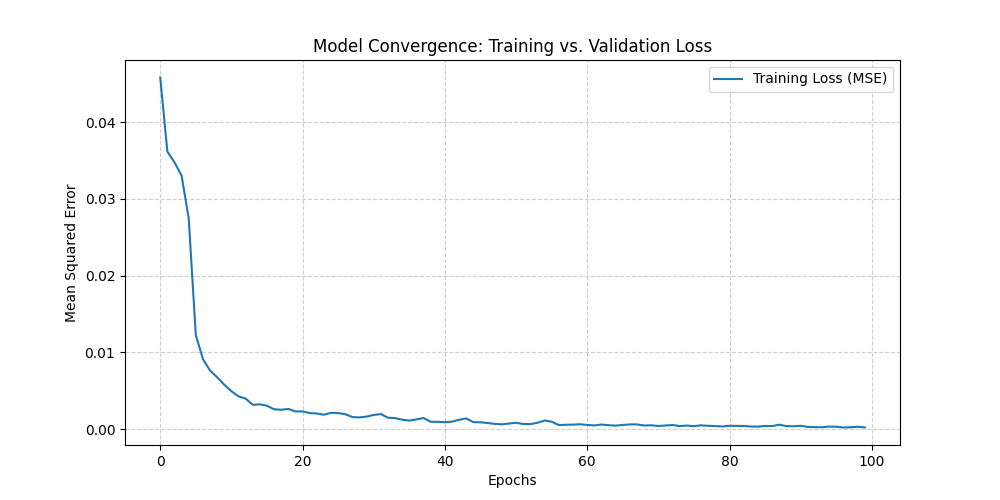
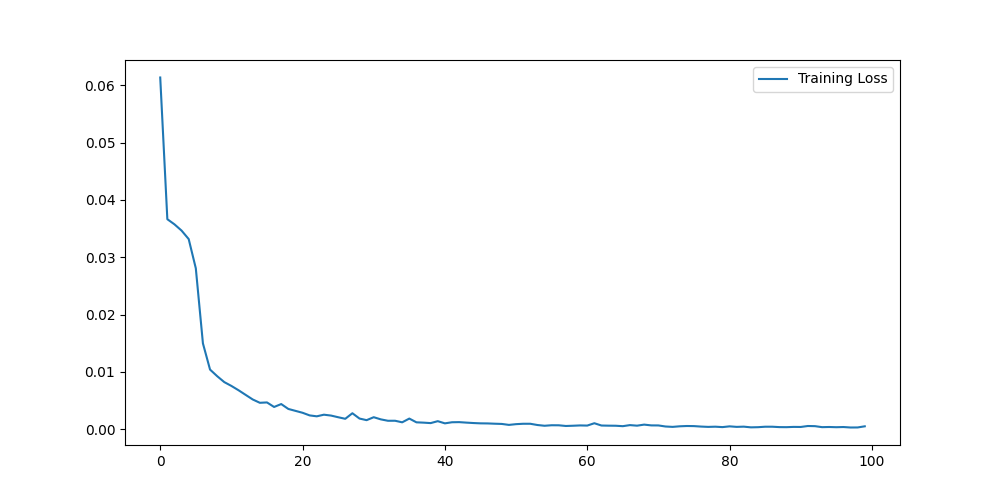
grid search, removed val partitioning completely from code
BEST PARAMS: (20, 50, 32)
BEST MSE: 5.521583744433976e-05

diff --git a/src/model_lstm.py b/src/model_lstm.py
@@ -2,108 +2,103 @@ import scipy.io
 import matplotlib.pyplot as plt
 import numpy as np
 import os
+from itertools import product
 from sklearn.preprocessing import MinMaxScaler
-from sklearn.metrics import mean_absolute_error, mean_squared_error
+from sklearn.metrics import mean_squared_error
 from tensorflow.keras.models import Sequential
 from tensorflow.keras.layers import Dense, LSTM, Input
 
-# Environment setup
-# gets rid of annoying warnings and forces TF to use CPU (since GPU is not available in Colab)
 os.environ["TF_CPP_MIN_LOG_LEVEL"] = "3"
 os.environ["TF_ENABLE_ONEDNN_OPTS"] = "0"
-# exist=ing_ok=True prevents error if folder already exists
+
 os.makedirs("models", exist_ok=True)
 os.makedirs("output", exist_ok=True)
 
-# constants
-WINDOW_SIZE = 20 #TODO try multiple using hyperparameter grid search 
-EPOCHS=100
-BATCH_SIZE=32
-VAL_SPLIT=0 #use 100% training set, no validation split, since we will evaluate on the test set. If you want to monitor training performance, set this to 0.2 or similar.
-VERBOSE=1 #print epoch loading, otherwise change to 0
-PREDICTIONS=200 #make 200 predictions 
+WINDOW_SIZES = [10, 20, 30]
+LSTM_UNITS = [32, 50]
+BATCH_SIZES = [16, 32]
 
-# Load and preprocess data
+EPOCHS = 100
+PREDICTIONS = 200
+
 data = scipy.io.loadmat("data/Xtrain.mat")
 X_raw = data["Xtrain"].flatten().reshape(-1, 1)
-# Scale data 
+
 scaler = MinMaxScaler(feature_range=(0, 1))
 X_scaled = scaler.fit_transform(X_raw).flatten()
 
-# Create sequences for RNN input 
 def create_sequences(data, window):
-    """Create sequences of length window from data"""
     X, Y = [], []
     for i in range(len(data) - window):
         X.append(data[i:i + window])
         Y.append(data[i + window])
     return np.array(X), np.array(Y)
 
-X, Y = create_sequences(X_scaled, WINDOW_SIZE)
-X = X.reshape(X.shape[0], X.shape[1], 1)
-
-print("Shape:", X.shape)
-
-# Model building and training
-# Try LSTM because it  handles the vanishing gradient problem in time-series...
-#  ... and capturing long-term dependencies better than SimpleRNN.
-def build_lstm():
+def build_lstm(window_size, units):
     model = Sequential([
-        Input(shape=(WINDOW_SIZE, 1)),
-        LSTM(50, activation="tanh", return_sequences=False),
+        Input(shape=(window_size, 1)),
+        LSTM(units, activation="tanh"),
         Dense(25, activation="relu"),
         Dense(1)
     ])
     model.compile(optimizer="adam", loss="mse")
     return model
 
-print("Training model...")
-model = build_lstm()
-history = model.fit(X, Y, epochs=EPOCHS, batch_size=BATCH_SIZE, verbose=VERBOSE, validation_split=VAL_SPLIT)
-model.save("models/best_lstm_model.keras")
+best_score = float("inf")
+best_params = None
+best_model = None
 
-# 4. RECURSIVE PREDICTION (Part c)
-# Use the last window of training data to start predicting the next 200 points
-print("Generating 200-step recursive forecast...")
+for window, units, batch in product(WINDOW_SIZES, LSTM_UNITS, BATCH_SIZES):
+    print(f"\nTesting: window={window}, units={units}, batch={batch}")
+
+    X, Y = create_sequences(X_scaled, window)
+    X = X.reshape(X.shape[0], X.shape[1], 1)
+
+    split = int(len(X) * 0.8)
+    X_train, X_val = X[:split], X[split:]
+    Y_train, Y_val = Y[:split], Y[split:]
+
+    model = build_lstm(window, units)
+    history = model.fit(X_train, Y_train, epochs=EPOCHS, batch_size=batch, verbose=0)
+
+    preds = model.predict(X_val, verbose=0)
+    mse = mean_squared_error(Y_val, preds)
+
+    print("MSE:", mse)
+
+    if mse < best_score:
+        best_score = mse
+        best_params = (window, units, batch)
+        best_model = model
+        best_history = history
+
+print("\nBEST PARAMS:", best_params)
+print("BEST MSE:", best_score)
+
+best_model.save("models/best_lstm_model.keras")
+
+WINDOW_SIZE = best_params[0]
+
 last_window = X_scaled[-WINDOW_SIZE:].reshape(1, WINDOW_SIZE, 1)
 recursive_preds_scaled = []
 
 current_batch = last_window
-for _ in range(200):
-    # Predict 1 step ahead
-    pred = model.predict(current_batch, verbose=VERBOSE)
+for _ in range(PREDICTIONS):
+    pred = best_model.predict(current_batch, verbose=0)
     recursive_preds_scaled.append(pred[0, 0])
-    
-    # Update the window: slide it forward by 1 and insert the prediction
-    new_entry = pred.reshape(1, 1, 1)
-    current_batch = np.append(current_batch[:, 1:, :], new_entry, axis=1)
+    current_batch = np.append(current_batch[:, 1:, :], pred.reshape(1,1,1), axis=1)
 
-# Part (a): Scale back to original units
 recursive_preds = scaler.inverse_transform(np.array(recursive_preds_scaled).reshape(-1, 1))
 
-# visualise loss curve 
 plt.figure(figsize=(10, 5))
-plt.plot(history.history['loss'], label='Training Loss (MSE)')
-if VAL_SPLIT > 0:
-    plt.plot(history.history['val_loss'], label='Validation Loss (MSE)')
-plt.title('Model Convergence: Training vs. Validation Loss')
-plt.xlabel('Epochs')
-plt.ylabel('Mean Squared Error')
+plt.plot(best_history.history['loss'], label='Training Loss')
 plt.legend()
-plt.grid(True, linestyle='--', alpha=0.6)
 plt.savefig("output/loss_lstm.png")
 plt.show()
 
-# FORECAST 
 plt.figure(figsize=(12, 6))
-plt.plot(range(len(X_raw)), X_raw, label="Historical Training Data", alpha=0.7)
-# 200 predictions
-plt.plot(range(len(X_raw), len(X_raw) + PREDICTIONS), recursive_preds, 
-         label="Recursive Forecast (Next 200 steps)", color='red', linewidth=2)
-plt.title("Laser Measurement: Full Sequence + Recursive Forecast")
-plt.xlabel("Time Steps")
-plt.ylabel("Measurement Value")
+plt.plot(range(len(X_raw)), X_raw, label="History")
+plt.plot(range(len(X_raw), len(X_raw)+PREDICTIONS), recursive_preds, label="Forecast")
 plt.legend()
 plt.savefig("output/forecast_results_lstm.png")
 plt.show()
-